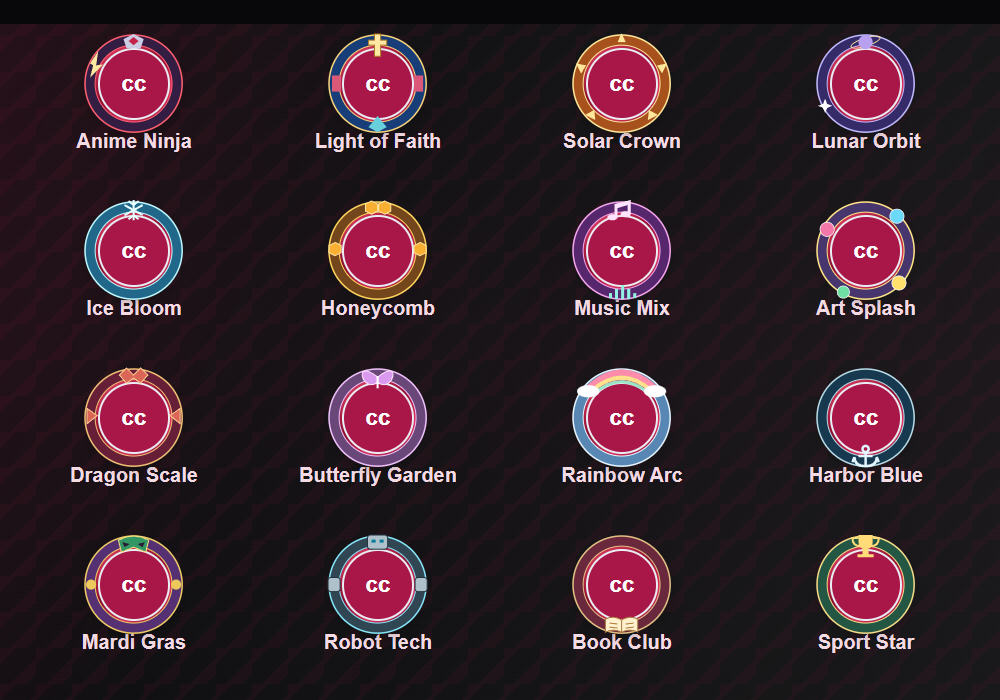
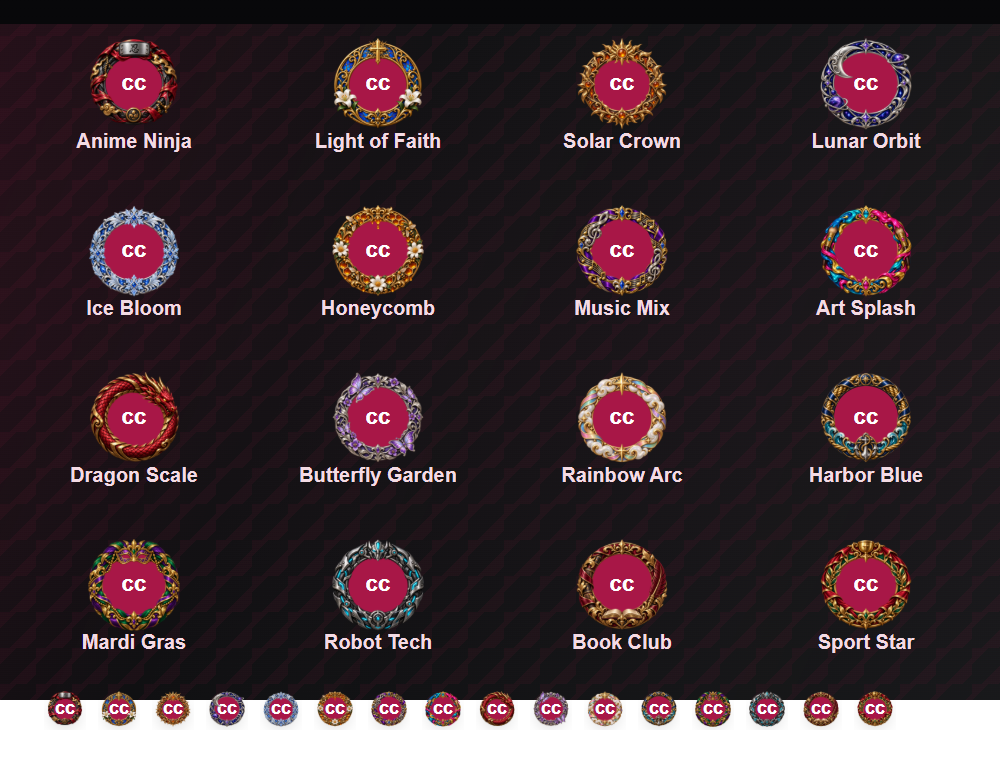
Upgrade profile frames with ornate artwork and paginate profile pickers

diff --git a/app.js b/app.js
@@ -1762,28 +1762,10 @@ function profileFrameArt(frame) {
   return art[frame] ? `<svg class="profile-frame-art" viewBox="0 0 100 100" aria-hidden="true">${art[frame]}</svg>` : "";
 }
 function newProfileFrameArt(frame) {
-  const designs = {
-    'anime-crest': ['#331d43','#ff6070','<path d="m40 6 10-5 10 5-3 9H43Z" fill="#cccde5"/><path d="m45 8 5-4 5 4-5 4Z" fill="#c52249"/><path d="m7 30 8-12-2 14 7-1-13 13 3-12Z" fill="#ffe8a0"/>'],
-    'faith-glass': ['#173e79','#f8d47b','<path d="M47 1h6v6h6v5h-6v11h-6V12h-6V7h6Z" fill="#ffe8a3" stroke="#ac7b28"/><path d="M5 42h9v16H5ZM86 42h9v16h-9Z" fill="#da5979"/><path d="m41 93 9-11 9 11-9 5Z" fill="#67d0dc"/>'],
-    'solar-crown': ['#a7521c','#ffe69a','<path d="m50 0 4 9h-8ZM5 30l10 2-5 8ZM95 30l-10 2 5 8ZM14 81l9-5 1 10ZM86 81l-9-5-1 10Z" fill="#ffe69a"/>'],
-    'lunar-orbit': ['#342b68','#c0baff','<ellipse cx="50" cy="9" rx="15" ry="4" fill="none" stroke="#ffe4a0" transform="rotate(-18 50 9)"/><circle cx="50" cy="9" r="7" fill="#b6a0ef"/><path d="m10 65 2 5 5 2-5 2-2 5-2-5-5-2 5-2Z" fill="#fff"/>'],
-    'ice-bloom': ['#206789','#bcf8ff','<path d="M50 0v20M41 5l18 10M41 15 59 5M45 1l5 4 5-4M45 19l5-4 5 4" fill="none" stroke="#e5ffff" stroke-width="2"/>'],
-    'honeycomb': ['#74461b','#ffd45d','<g fill="#f9af32" stroke="#ffe6a1"><path d="m44 1 6 3v7l-6 3-6-3V4ZM57 1l6 3v7l-6 3-6-3V4ZM8 42l6 3v7l-6 3-6-3v-7ZM92 42l6 3v7l-6 3-6-3v-7Z"/></g>'],
-    'music-mix': ['#56276d','#f4a5ed','<g fill="#ffe2fd"><path d="M43 4v13h3V8l10-3v9h3V0Z"/><ellipse cx="41" cy="17" rx="5" ry="3"/><ellipse cx="54" cy="14" rx="5" ry="3"/></g><path d="M39 92v5m6-9v10m6-14v14m6-10v10m6-6v5" stroke="#92f1e1" stroke-width="3"/>'],
-    'art-splash': ['#47356e','#ffe487','<g stroke="#fff" stroke-width=".7"><circle cx="12" cy="29" r="7" fill="#f477a9"/><circle cx="81" cy="16" r="7" fill="#6ad9fa"/><circle cx="83" cy="82" r="7" fill="#ffe16b"/><circle cx="28" cy="91" r="6" fill="#70dfa3"/></g>'],
-    'dragon-scale': ['#661f36','#efbe74','<path d="m36 8 7-7 7 7 7-7 7 7-7 8-7-5-7 5ZM4 41l10 7-10 8ZM96 41l-10 7 10 8Z" fill="#db6658" stroke="#ffd091"/>'],
-    'butterfly': ['#694778','#efc1fb','<g fill="#d999ee" stroke="#ffe4fc"><path d="M50 10C25-10 35 27 50 15 65 27 75-10 50 10Z"/><path d="M50 9v12" stroke="#fff" stroke-width="2"/></g>'],
-    'rainbow-arc': ['#5787b2','#e5f4ff','<path d="M18 20Q50-9 82 20" fill="none" stroke="#ff8cab" stroke-width="6"/><path d="M20 24Q50-3 80 24" fill="none" stroke="#ffe18b" stroke-width="4"/><path d="M23 26Q50 3 77 26" fill="none" stroke="#9be4c7" stroke-width="3"/><g fill="#fff"><ellipse cx="17" cy="24" rx="11" ry="6"/><ellipse cx="83" cy="24" rx="11" ry="6"/></g>'],
-    'ocean-anchor': ['#173950','#b7dce7','<g fill="none" stroke="#e2f6ff" stroke-width="2.5"><circle cx="50" cy="81" r="3"/><path d="M50 84v14m-7-10h14m-18 1q0 9 11 9t11-9m-22 0-2 5m24-5 2 5"/></g>'],
-    'mardi-gras': ['#553173','#eecb65','<path d="M35 6q15-8 30 0l-3 12-12-5-12 5Z" fill="#339765" stroke="#ffdf82"/><path d="m39 8 7 2-5 3Zm22 0-7 2 5 3Z" fill="#281735"/><circle cx="8" cy="50" r="5" fill="#edc85a"/><circle cx="92" cy="50" r="5" fill="#edc85a"/>'],
-    'robot-tech': ['#304653','#86e6fa','<g fill="#afc1cb" stroke="#23343f"><rect x="40" y="1" width="20" height="14" rx="3"/><rect x="1" y="43" width="12" height="14" rx="3"/><rect x="87" y="43" width="12" height="14" rx="3"/></g><path d="M44 7h4m4 0h4" stroke="#027d9c" stroke-width="3"/>'],
-    'book-club': ['#6a283d','#e2c083','<path d="M34 84q8-4 16 1 8-5 16-1v13q-8-4-16 0-8-4-16 0Z" fill="#fff1ce" stroke="#aa773e"/><path d="M50 85v12m-12-9 8 1m8 0 8-1m-24 4 8 1m8 0 8-1" stroke="#aa773e"/>'],
-    'sport-star': ['#235744','#f4db87','<path d="M43 1h14v7q0 7-7 7t-7-7Zm4 14h6v5h-6Zm-5 5h16v3H42Z" fill="#ffdc78"/><path d="M43 4h-6q0 8 8 8m12-8h6q0 8-8 8" fill="none" stroke="#ffdc78" stroke-width="2"/>']
-  };
-  const design = designs[frame];
-  if (!design) return '';
-  const [base, trim, motif] = design;
-  return `<svg class="profile-frame-art" viewBox="0 0 100 100" aria-hidden="true"><circle cx="50" cy="50" r="43" fill="none" stroke="${base}" stroke-width="10"/><circle cx="50" cy="50" r="48" fill="none" stroke="${trim}" stroke-width="1.5"/><circle cx="50" cy="50" r="38" fill="none" stroke="${trim}" stroke-width="1"/>${motif}</svg>`;
+  const illustratedFrames = ["anime-crest","faith-glass","dragon-scale","solar-crown","lunar-orbit","ice-bloom","honeycomb","music-mix","art-splash","butterfly","rainbow-arc","ocean-anchor","mardi-gras","robot-tech","book-club","sport-star"];
+  return illustratedFrames.includes(frame)
+    ? `<img class="profile-frame-raster" src="assets/profile-frame-${frame}-ornate.png" alt="" aria-hidden="true" loading="lazy">`
+    : '';
 }
 function renderForumAvatar(name, avatarUrl, extraClass = "", profileFrame = "none") {
   const safeUrl = normalizeProfileAvatarUrl(avatarUrl);
@@ -12751,6 +12733,25 @@ function attachForumProfileEditor() {
   let selectedFrame = normalizeProfileFrame(authSession.profileFrame);
   const saveFrame = document.getElementById("saveProfileFrame");
   const frameButtons = [...document.querySelectorAll("[data-profile-frame]")];
+  const framePageSize = 8;
+  let framePage = Math.floor(Math.max(0, frameButtons.findIndex(b => b.dataset.profileFrame === selectedFrame)) / framePageSize);
+  const framePages = Math.ceil(frameButtons.length / framePageSize);
+  const pager = document.createElement('nav');
+  pager.className = 'profile-picker-pages';
+  pager.setAttribute('aria-label', 'Profile frame pages');
+  document.querySelector('.profile-frame-options').after(pager);
+  const showFramePage = () => {
+    frameButtons.forEach((button, index) => { button.hidden = Math.floor(index / framePageSize) !== framePage; });
+    pager.innerHTML = `<button type="button" class="outline-btn" data-frame-page="-1" ${framePage === 0 ? 'disabled' : ''}>Previous</button><span role="status">Page ${framePage + 1} of ${framePages}</span><button type="button" class="outline-btn" data-frame-page="1" ${framePage === framePages - 1 ? 'disabled' : ''}>Next</button>`;
+  };
+  pager.addEventListener('click', event => {
+    const button = event.target.closest('[data-frame-page]');
+    if (!button || button.disabled) return;
+    framePage = Math.max(0, Math.min(framePages - 1, framePage + Number(button.dataset.framePage)));
+    showFramePage();
+    frameButtons[framePage * framePageSize]?.focus({preventScroll:true});
+  });
+  showFramePage();
   frameButtons.forEach(button => button.addEventListener("click", () => {
     selectedFrame = button.dataset.profileFrame;
     frameButtons.forEach(item => item.setAttribute("aria-pressed", String(item === button)));

diff --git a/work/verify-profile-collection.js b/work/verify-profile-collection.js
@@ -7,13 +7,21 @@ const {chromium}=require('playwright');
  assert.equal(ctx.frames.length,32);assert.equal(new Set(ctx.frames.map(f=>f[0])).size,32);
  const backend=vm.createContext({});
  vm.runInContext(server.slice(server.indexOf('const profileFrameIds ='),server.indexOf('const profileBannerIds ='))+server.split('\n').filter(l=>l.includes('profileFrameIds.add(id)')).join('\n')+';function clean(value){return profileFrameIds.has(value)?value:"none";}',backend);
- for(const [id] of ctx.frames){assert.equal(backend.clean(id),id);assert.equal(ctx.normalizeProfileFrame(id),id);if(id!=='none')assert(ctx.profileFrameArt(id).includes('<svg'));}
+ for(const [id] of ctx.frames){assert.equal(backend.clean(id),id);assert.equal(ctx.normalizeProfileFrame(id),id);if(id!=='none')assert(/<(svg|img)/.test(ctx.profileFrameArt(id)));}
  const browser=await chromium.launch({executablePath:'C:/Program Files (x86)/Google/Chrome/Application/chrome.exe',headless:true});
  try{
  const page=await browser.newPage({viewport:{width:1000,height:700}});
- await page.setContent('<style>'+fs.readFileSync('styles.css','utf8').replace(/^\uFEFF/,'')+'body{padding:24px}.gallery{display:grid;grid-template-columns:repeat(4,1fr);gap:24px}.gallery article{text-align:center;padding:14px}</style><body data-theme="night"><div class="gallery">'+ctx.frames.slice(16).map(([id,name])=>'<article>'+ctx.renderForumAvatar('Test','','',id)+'<h3>'+name+'</h3></article>').join('')+'</div></body>');
- assert.equal(await page.locator('.profile-frame-art').count(),16);
+ await page.route('http://art.local/**',r=>r.fulfill({body:fs.readFileSync('.'+new URL(r.request().url()).pathname),contentType:'image/png'}));
+ await page.addInitScript(()=>{});
+ await page.setContent('<base href="http://art.local/"><style>'+fs.readFileSync('styles.css','utf8').replace(/^\uFEFF/,'')+'body{padding:24px}.gallery{display:grid;grid-template-columns:repeat(4,1fr);gap:24px}.gallery article{text-align:center;padding:14px}</style><body data-theme="night"><div class="gallery">'+ctx.frames.slice(16).map(([id,name])=>'<article>'+ctx.renderForumAvatar('Test','','',id)+'<h3>'+name+'</h3></article>').join('')+'</div></body>');
+ await page.evaluate(()=>{const base=document.createElement('base');base.href='http://art.local/';document.head.prepend(base);});
+ assert.equal(await page.locator('.profile-frame-raster').count(),16);
+ await page.locator('img').evaluateAll(images=>Promise.all(images.map(i=>{i.loading='eager';return i.decode();})));
  assert.equal(await page.locator('parsererror').count(),0);
+ const small=ctx.frames.slice(16).map(([id])=>'<span class="header-frame-slot">'+ctx.renderForumAvatar('Test','','',id)+'</span>').join('');
+ await page.evaluate(html=>document.body.insertAdjacentHTML('beforeend','<div style="display:flex;gap:12px;flex-wrap:wrap;padding:20px">'+html+'</div>'),small);
+ await page.locator('.header-frame-slot img').evaluateAll(images=>Promise.all(images.map(i=>{i.loading='eager';return i.decode();})));
+ assert(await page.locator('.header-frame-slot').evaluateAll(slots=>slots.every(s=>{const a=s.querySelector('.profile-frame').getBoundingClientRect(),r=s.querySelector('img').getBoundingClientRect();return r.width<=a.width+1&&r.height<=a.height+1;})));
  await page.screenshot({path:'work/profile-collection-preview.png',fullPage:true});
  console.log('32 frames total; all 16 new designs render and pass browser/server normalization.');
  }finally{await browser.close();}

diff --git a/profile-banners.js b/profile-banners.js
@@ -18,6 +18,26 @@
     const preview = () => `<div class="profile-banner-card">${cover(draft)}<div class="profile-banner-identity">${avatar}<div><strong>${name}</strong><span>${role}</span></div></div></div>`;
     dialog.innerHTML = `<div class="launch-scene-dialog-heading"><h2 id="profileBannerTitle">Choose your profile banner</h2><button type="button" class="outline-btn" data-banner-close aria-label="Close banner chooser">✕</button></div><p>Your Colt Corner cover. Your picture, avatar frame, and homepage scene stay unchanged.</p><div id="profileBannerPreview">${preview()}</div><div class="profile-banner-options">${choices.map(([id, title]) => `<button type="button" data-banner-choice="${id}" aria-pressed="${id === draft}">${id === 'none' ? '<span class="profile-banner-blank">Simple & clean</span>' : cover(id)}<strong>${title}</strong></button>`).join('')}</div><p id="profileBannerStatus" role="status"></p><div class="launch-scene-dialog-actions"><button type="button" class="outline-btn" data-banner-close>Cancel</button><button type="button" class="primary-btn" id="saveProfileBanner">Save banner</button></div>`;
     document.body.append(dialog);
+    const pageSize = 6;
+    let page = Math.floor(Math.max(0, choices.findIndex(([id]) => id === draft)) / pageSize);
+    const pageCount = Math.ceil(choices.length / pageSize);
+    const cards = [...dialog.querySelectorAll('[data-banner-choice]')];
+    const pager = document.createElement('nav');
+    pager.className = 'profile-picker-pages';
+    pager.setAttribute('aria-label', 'Banner pages');
+    dialog.querySelector('.profile-banner-options').after(pager);
+    const showPage = () => {
+      cards.forEach((card, index) => { card.hidden = Math.floor(index / pageSize) !== page; });
+      pager.innerHTML = `<button type="button" class="outline-btn" data-banner-page="-1" ${page === 0 ? 'disabled' : ''}>Previous</button><span role="status">Page ${page + 1} of ${pageCount}</span><button type="button" class="outline-btn" data-banner-page="1" ${page === pageCount - 1 ? 'disabled' : ''}>Next</button>`;
+    };
+    pager.addEventListener('click', event => {
+      const button = event.target.closest('[data-banner-page]');
+      if (!button || button.disabled || saving) return;
+      page = Math.max(0, Math.min(pageCount - 1, page + Number(button.dataset.bannerPage)));
+      showPage();
+      cards[page * pageSize]?.focus({preventScroll:true});
+    });
+    showPage();
     const close = () => { if (saving) return; dialog.close(); dialog.remove(); document.getElementById('changeProfileBanner')?.focus(); };
     dialog.querySelectorAll('[data-banner-close]').forEach(button => button.addEventListener('click', close));
     dialog.addEventListener('cancel', event => { event.preventDefault(); close(); });
@@ -38,6 +58,7 @@
         saving = false;
         dialog.querySelector('#profileBannerStatus').textContent = error.message;
         dialog.querySelectorAll('button').forEach(button => { button.disabled = false; });
+        showPage();
       }
     });
     dialog.showModal();

diff --git a/work/verify-profile-pages.js b/work/verify-profile-pages.js
@@ -1,0 +1,30 @@
+const fs=require('fs'),assert=require('assert/strict');
+const {chromium}=require('playwright');
+(async()=>{
+const src=fs.readFileSync('app.js','utf8');
+const browser=await chromium.launch({executablePath:'C:/Program Files (x86)/Google/Chrome/Application/chrome.exe',headless:true});
+try{
+const page=await browser.newPage({viewport:{width:390,height:850}});
+await page.route('http://art.local/**',r=>r.fulfill({body:fs.readFileSync('.'+new URL(r.request().url()).pathname),contentType:'image/png'}));
+await page.setContent('<base href="http://art.local/"><style>'+fs.readFileSync('styles.css','utf8').replace(/^\uFEFF/,'')+'</style><body data-theme="night"></body>');
+await page.addScriptTag({path:require('path').resolve('profile-banners.js')});
+await page.addScriptTag({content:`const authSession={name:'Test',profileFrame:'faith-glass'};const isSignedIn=()=>true;const normalizeProfileAvatarUrl=()=>'';const escapeHtml=x=>x;const forumInitials=()=> 'CC';let profileAvatarMessage='';const sharedBackend={request:async(url,opts)=>{window.savedFrame=JSON.parse(opts.body).profileFrame;throw Error('Test retry');}};`+src.slice(src.indexOf('const PROFILE_FRAMES ='),src.indexOf('function renderForumAuthor('))+src.slice(src.indexOf('function renderForumProfileEditor('),src.indexOf('function hasSharedData('))+src.slice(src.indexOf('function attachForumProfileEditor('),src.indexOf('function validateThreadTopic('))+'document.body.innerHTML=renderForumProfileEditor(false);attachForumProfileEditor();'});
+assert.equal(await page.locator('[data-profile-frame]:visible').count(),8);
+assert(await page.locator('[data-profile-frame="faith-glass"]').isVisible());
+await page.locator('[data-profile-frame="anime-crest"]').click();
+await page.locator('[data-frame-page="1"]').click();
+await page.locator('[data-frame-page="-1"]').click();
+assert.equal(await page.locator('[data-profile-frame="anime-crest"]').getAttribute('aria-pressed'),'true');
+await page.locator('#saveProfileFrame').click();
+assert.equal(await page.evaluate(()=>window.savedFrame),'anime-crest');
+await page.evaluate(()=>ProfileBanners.open({selected:'none',avatar:'',name:'Test',role:'Student',save:async id=>{window.savedBanner=id;return id;},onSave:()=>{}}));
+assert.equal(await page.locator('[data-banner-choice]:visible').count(),6);
+await page.locator('[data-banner-page="1"]').click();
+const choice=page.locator('[data-banner-choice]:visible').first();const id=await choice.getAttribute('data-banner-choice');await choice.click();
+await page.locator('[data-banner-page="1"]').click();
+await page.locator('[data-banner-page="-1"]').click();
+assert.equal(await page.locator('[data-banner-choice="'+id+'"]').getAttribute('aria-pressed'),'true');
+await page.locator('#saveProfileBanner').click();assert.equal(await page.evaluate(()=>window.savedBanner),id);
+console.log('Frame/banner pages passed: limits, saved-selection page, browsing preserves draft, save payload, mobile controls.');
+}finally{await browser.close();}
+})().catch(e=>{console.error(e);process.exitCode=1});

diff --git a/styles.css b/styles.css
@@ -10365,6 +10365,14 @@ body[data-theme="night"] .colt-assistant-heading .feature-kicker {
 .profile-frame-picker legend { padding: 0 10px 0 0; font-weight: 900; font-size: 1rem; }
 .profile-frame-picker > p { margin: 0 0 16px; font-size: .85rem; color: var(--muted); }
 .profile-frame-options { display: grid; grid-template-columns: repeat(auto-fit, minmax(118px, 1fr)); gap: 10px; }
+.profile-frame-option[hidden], .profile-banner-options > button[hidden] { display: none; }
+.profile-picker-pages { display:flex; align-items:center; justify-content:center; gap:14px; margin:16px 0; }
+.profile-picker-pages span { color:var(--ink); font-size:.85rem; }
+.profile-picker-pages button:disabled { opacity:.45; cursor:default; }
+.profile-frame:has(> .profile-frame-raster) { background:none; box-shadow:none; }
+.profile-frame:has(> .profile-frame-raster)::before { display:none; }
+.profile-frame:has(> .profile-frame-raster) > .forum-avatar { width:70%; height:70%; border:0; }
+.profile-frame-raster { position:absolute; inset:0; width:100%; height:100%; object-fit:contain; z-index:2; pointer-events:none; }
 .profile-frame-option { display: grid; justify-items: center; align-content: start; gap: 9px; min-width: 0; padding: 18px 8px 12px; border: 1px solid var(--border); border-radius: 14px; color: var(--ink); background: var(--paper); cursor: pointer; transition: border-color .15s, background .15s; }
 .profile-frame-option:hover { border-color: var(--blue); }
 .profile-frame-option[aria-pressed="true"] { border: 2px solid var(--blue); padding: 17px 7px 11px; background: color-mix(in srgb, var(--blue) 10%, var(--paper)); box-shadow: 0 0 0 2px color-mix(in srgb, var(--blue) 18%, transparent); }

diff --git a/index.html b/index.html
@@ -11,7 +11,7 @@
   <link rel="icon" type="image/png" sizes="16x16" href="/favicon-16x16.png?v=20260727-shield2">
   <link rel="apple-touch-icon" sizes="180x180" href="/apple-touch-icon.png?v=20260727-shield2">
   <link rel="manifest" href="/site.webmanifest?v=20260901-single-client-v1">
-  <link rel="stylesheet" href="styles.css?v=20260927-profile-collection-v54">
+  <link rel="stylesheet" href="styles.css?v=20260927-ornate-pages-v55">
   <link rel="stylesheet" href="launchpad-scenes.css?v=20260926-christian-v44">
   <link rel="stylesheet" href="scene-frame-fit.css?v=20260920-fit-v3">
   <link rel="stylesheet" href="collectible-shelf.css?v=20260925-christian-v20">
@@ -24,9 +24,9 @@
   <script src="colt-assistant-knowledge.js?v=20260729-colt-corner-preview-fill1"></script>
 
   <script src="launchpad-scenes.js?v=20260926-christian-v41"></script>
-  <script src="profile-banners.js?v=20260927-collection-v6"></script>
+  <script src="profile-banners.js?v=20260927-pages-v7"></script>
 <script src="collectible-shelf.js?v=20260926-labubu-front-v40"></script>
-  <script src="app.js?v=20260927-profile-collection-v78"></script>
+  <script src="app.js?v=20260927-ornate-pages-v79"></script>
   <script src="colt-assistant.js?v=20260905-lazy-artwork-v2"></script>
   <script src="colt-radio.js?v=20260926-youradio-v25"></script>
   <script src="launchpad-colt.js?v=20260908-bathing-panel-v9"></script>

diff --git a/work/ornate-frame-art.md b/work/ornate-frame-art.md
@@ -1,0 +1,100 @@
+# Ornate profile frame artwork
+
+Built-in image generation with approved concept board as reference; copied unchanged. Replaces the sixteen newest vector designs while preserving saved IDs.
+
+## anime-crest
+
+Final asset: assets/profile-frame-anime-crest-ornate.png
+
+Prompt: Use case: precise-object-edit. Reference is approved frame concept board. Create ONE isolated circular avatar FRAME ONLY, theme: Match the LEFT Anime Ninja frame in reference exactly: silver ninja headband, crimson silk wrapping black sculpted steel, gold flourishes and bottom medallion. Match reference's lavish sculpted 3D material quality exactly, not flat vector icons. Square canvas, straight-on view, outer diameter 94% canvas, centered circular opening 66% canvas. Both center hole and exterior must be truly transparent alpha. No avatar, no monitor icon, no burgundy center fill, no background, no text or labels, no board or UI, no external shadows. Ornamentation kept within compact outer circle. All ring parts visibly connected. Preserve broad bold sculptural detail at small sizes.
+
+## faith-glass
+
+Final asset: assets/profile-frame-faith-glass-ornate.png
+
+Prompt: Use case: precise-object-edit. Reference is approved frame concept board. Create ONE isolated circular avatar FRAME ONLY, theme: Match the MIDDLE Light of Faith frame exactly: carved gold scrollwork, blue stained glass, integrated gold Christian cross top and white lilies lower sides. Match reference's lavish sculpted 3D material quality exactly, not flat vector icons. Square canvas, straight-on view, outer diameter 94% canvas, centered circular opening 66% canvas. Both center hole and exterior must be truly transparent alpha. No avatar, no monitor icon, no burgundy center fill, no background, no text or labels, no board or UI, no external shadows. Ornamentation kept within compact outer circle. All ring parts visibly connected. Preserve broad bold sculptural detail at small sizes.
+
+## dragon-scale
+
+Final asset: assets/profile-frame-dragon-scale-ornate.png
+
+Prompt: Use case: precise-object-edit. Reference is approved frame concept board. Create ONE isolated circular avatar FRAME ONLY, theme: Match the RIGHT Dragon Scale frame exactly: ruby dragon curled tightly around rim, head upper right, gold horns and layered scales. Match reference's lavish sculpted 3D material quality exactly, not flat vector icons. Square canvas, straight-on view, outer diameter 94% canvas, centered circular opening 66% canvas. Both center hole and exterior must be truly transparent alpha. No avatar, no monitor icon, no burgundy center fill, no background, no text or labels, no board or UI, no external shadows. Ornamentation kept within compact outer circle. All ring parts visibly connected. Preserve broad bold sculptural detail at small sizes.
+
+## solar-crown
+
+Final asset: assets/profile-frame-solar-crown-ornate.png
+
+Prompt: Use case: precise-object-edit. Reference is approved frame concept board. Create ONE isolated circular avatar FRAME ONLY, theme: Ornate sun crown with sculpted golden rays, amber gemstones and warm bronze filigree. Match reference's lavish sculpted 3D material quality exactly, not flat vector icons. Square canvas, straight-on view, outer diameter 94% canvas, centered circular opening 66% canvas. Both center hole and exterior must be truly transparent alpha. No avatar, no monitor icon, no burgundy center fill, no background, no text or labels, no board or UI, no external shadows. Ornamentation kept within compact outer circle. All ring parts visibly connected. Preserve broad bold sculptural detail at small sizes.
+
+## lunar-orbit
+
+Final asset: assets/profile-frame-lunar-orbit-ornate.png
+
+Prompt: Use case: precise-object-edit. Reference is approved frame concept board. Create ONE isolated circular avatar FRAME ONLY, theme: Sculpted silver crescent and violet planet accents, deep indigo enamel, star gemstones and elegant silver orbit filigree. Match reference's lavish sculpted 3D material quality exactly, not flat vector icons. Square canvas, straight-on view, outer diameter 94% canvas, centered circular opening 66% canvas. Both center hole and exterior must be truly transparent alpha. No avatar, no monitor icon, no burgundy center fill, no background, no text or labels, no board or UI, no external shadows. Ornamentation kept within compact outer circle. All ring parts visibly connected. Preserve broad bold sculptural detail at small sizes.
+
+## ice-bloom
+
+Final asset: assets/profile-frame-ice-bloom-ornate.png
+
+Prompt: Use case: precise-object-edit. Reference is approved frame concept board. Create ONE isolated circular avatar FRAME ONLY, theme: Intricate sculpted ice crystal snowflakes, pale blue sapphire, frosted silver foliage. Match reference's lavish sculpted 3D material quality exactly, not flat vector icons. Square canvas, straight-on view, outer diameter 94% canvas, centered circular opening 66% canvas. Both center hole and exterior must be truly transparent alpha. No avatar, no monitor icon, no burgundy center fill, no background, no text or labels, no board or UI, no external shadows. Ornamentation kept within compact outer circle. All ring parts visibly connected. Preserve broad bold sculptural detail at small sizes.
+
+## honeycomb
+
+Final asset: assets/profile-frame-honeycomb-ornate.png
+
+Prompt: Use case: precise-object-edit. Reference is approved frame concept board. Create ONE isolated circular avatar FRAME ONLY, theme: Luxurious golden honeycomb structure, tiny sculpted bees, amber honey gems and cream daisies. Match reference's lavish sculpted 3D material quality exactly, not flat vector icons. Square canvas, straight-on view, outer diameter 94% canvas, centered circular opening 66% canvas. Both center hole and exterior must be truly transparent alpha. No avatar, no monitor icon, no burgundy center fill, no background, no text or labels, no board or UI, no external shadows. Ornamentation kept within compact outer circle. All ring parts visibly connected. Preserve broad bold sculptural detail at small sizes.
+
+## music-mix
+
+Final asset: assets/profile-frame-music-mix-ornate.png
+
+Prompt: Use case: precise-object-edit. Reference is approved frame concept board. Create ONE isolated circular avatar FRAME ONLY, theme: Sculpted silver musical notes wrapping rich purple ribbon, elegant golden staff lines, blue crystal accents. Match reference's lavish sculpted 3D material quality exactly, not flat vector icons. Square canvas, straight-on view, outer diameter 94% canvas, centered circular opening 66% canvas. Both center hole and exterior must be truly transparent alpha. No avatar, no monitor icon, no burgundy center fill, no background, no text or labels, no board or UI, no external shadows. Ornamentation kept within compact outer circle. All ring parts visibly connected. Preserve broad bold sculptural detail at small sizes.
+
+## art-splash
+
+Final asset: assets/profile-frame-art-splash-ornate.png
+
+Prompt: Use case: precise-object-edit. Reference is approved frame concept board. Create ONE isolated circular avatar FRAME ONLY, theme: Rich sculptural glossy colorful paint swirls, paintbrushes hugging sides, jewel-like cyan pink gold pigments. Match reference's lavish sculpted 3D material quality exactly, not flat vector icons. Square canvas, straight-on view, outer diameter 94% canvas, centered circular opening 66% canvas. Both center hole and exterior must be truly transparent alpha. No avatar, no monitor icon, no burgundy center fill, no background, no text or labels, no board or UI, no external shadows. Ornamentation kept within compact outer circle. All ring parts visibly connected. Preserve broad bold sculptural detail at small sizes.
+
+## butterfly
+
+Final asset: assets/profile-frame-butterfly-ornate.png
+
+Prompt: Use case: precise-object-edit. Reference is approved frame concept board. Create ONE isolated circular avatar FRAME ONLY, theme: Ornate silver vines, lavender butterflies with detailed sculpted wings, small purple flowers. Match reference's lavish sculpted 3D material quality exactly, not flat vector icons. Square canvas, straight-on view, outer diameter 94% canvas, centered circular opening 66% canvas. Both center hole and exterior must be truly transparent alpha. No avatar, no monitor icon, no burgundy center fill, no background, no text or labels, no board or UI, no external shadows. Ornamentation kept within compact outer circle. All ring parts visibly connected. Preserve broad bold sculptural detail at small sizes.
+
+## rainbow-arc
+
+Final asset: assets/profile-frame-rainbow-arc-ornate.png
+
+Prompt: Use case: precise-object-edit. Reference is approved frame concept board. Create ONE isolated circular avatar FRAME ONLY, theme: Sculpted pearlescent clouds and pastel rainbow enamel ribbons around entire rim, gold star accents. Match reference's lavish sculpted 3D material quality exactly, not flat vector icons. Square canvas, straight-on view, outer diameter 94% canvas, centered circular opening 66% canvas. Both center hole and exterior must be truly transparent alpha. No avatar, no monitor icon, no burgundy center fill, no background, no text or labels, no board or UI, no external shadows. Ornamentation kept within compact outer circle. All ring parts visibly connected. Preserve broad bold sculptural detail at small sizes.
+
+## ocean-anchor
+
+Final asset: assets/profile-frame-ocean-anchor-ornate.png
+
+Prompt: Use case: precise-object-edit. Reference is approved frame concept board. Create ONE isolated circular avatar FRAME ONLY, theme: Ornate braided nautical rope, sculpted silver anchor at bottom, navy enamel, curling turquoise waves. Match reference's lavish sculpted 3D material quality exactly, not flat vector icons. Square canvas, straight-on view, outer diameter 94% canvas, centered circular opening 66% canvas. Both center hole and exterior must be truly transparent alpha. No avatar, no monitor icon, no burgundy center fill, no background, no text or labels, no board or UI, no external shadows. Ornamentation kept within compact outer circle. All ring parts visibly connected. Preserve broad bold sculptural detail at small sizes.
+
+## mardi-gras
+
+Final asset: assets/profile-frame-mardi-gras-ornate.png
+
+Prompt: Use case: precise-object-edit. Reference is approved frame concept board. Create ONE isolated circular avatar FRAME ONLY, theme: Luxurious New Orleans carnival mask integrated top, sculpted purple green gold feathers hugging rim, gold beadwork. Match reference's lavish sculpted 3D material quality exactly, not flat vector icons. Square canvas, straight-on view, outer diameter 94% canvas, centered circular opening 66% canvas. Both center hole and exterior must be truly transparent alpha. No avatar, no monitor icon, no burgundy center fill, no background, no text or labels, no board or UI, no external shadows. Ornamentation kept within compact outer circle. All ring parts visibly connected. Preserve broad bold sculptural detail at small sizes.
+
+## robot-tech
+
+Final asset: assets/profile-frame-robot-tech-ornate.png
+
+Prompt: Use case: precise-object-edit. Reference is approved frame concept board. Create ONE isolated circular avatar FRAME ONLY, theme: Intricate sculpted dark steel and silver mechanical armor, cyan luminous inlays, robot face crest and bolts. Match reference's lavish sculpted 3D material quality exactly, not flat vector icons. Square canvas, straight-on view, outer diameter 94% canvas, centered circular opening 66% canvas. Both center hole and exterior must be truly transparent alpha. No avatar, no monitor icon, no burgundy center fill, no background, no text or labels, no board or UI, no external shadows. Ornamentation kept within compact outer circle. All ring parts visibly connected. Preserve broad bold sculptural detail at small sizes.
+
+## book-club
+
+Final asset: assets/profile-frame-book-club-ornate.png
+
+Prompt: Use case: precise-object-edit. Reference is approved frame concept board. Create ONE isolated circular avatar FRAME ONLY, theme: Ornate burgundy and gold library frame, sculpted open book at bottom, feather quill hugging side and carved golden leaves. Match reference's lavish sculpted 3D material quality exactly, not flat vector icons. Square canvas, straight-on view, outer diameter 94% canvas, centered circular opening 66% canvas. Both center hole and exterior must be truly transparent alpha. No avatar, no monitor icon, no burgundy center fill, no background, no text or labels, no board or UI, no external shadows. Ornamentation kept within compact outer circle. All ring parts visibly connected. Preserve broad bold sculptural detail at small sizes.
+
+## sport-star
+
+Final asset: assets/profile-frame-sport-star-ornate.png
+
+Prompt: Use case: precise-object-edit. Reference is approved frame concept board. Create ONE isolated circular avatar FRAME ONLY, theme: Ornate golden trophy crest, sculpted crimson pennants, emerald enamel and gold laurel leaves. Match reference's lavish sculpted 3D material quality exactly, not flat vector icons. Square canvas, straight-on view, outer diameter 94% canvas, centered circular opening 66% canvas. Both center hole and exterior must be truly transparent alpha. No avatar, no monitor icon, no burgundy center fill, no background, no text or labels, no board or UI, no external shadows. Ornamentation kept within compact outer circle. All ring parts visibly connected. Preserve broad bold sculptural detail at small sizes.
+
